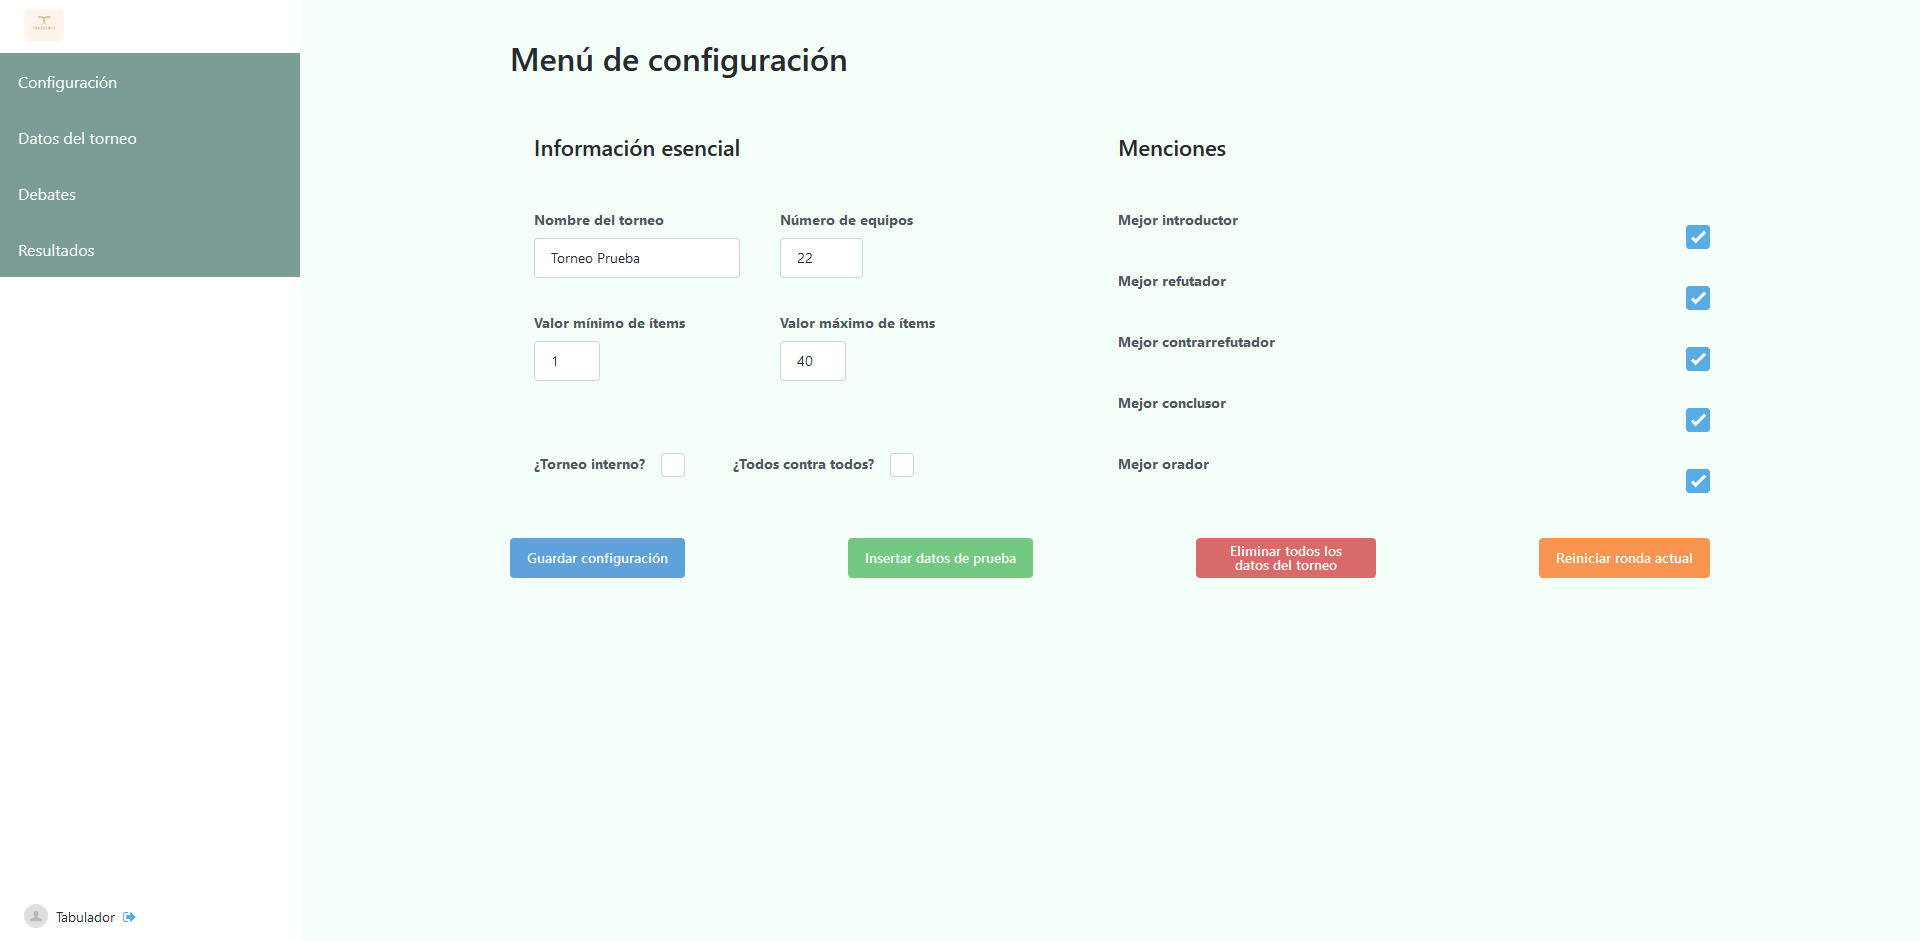
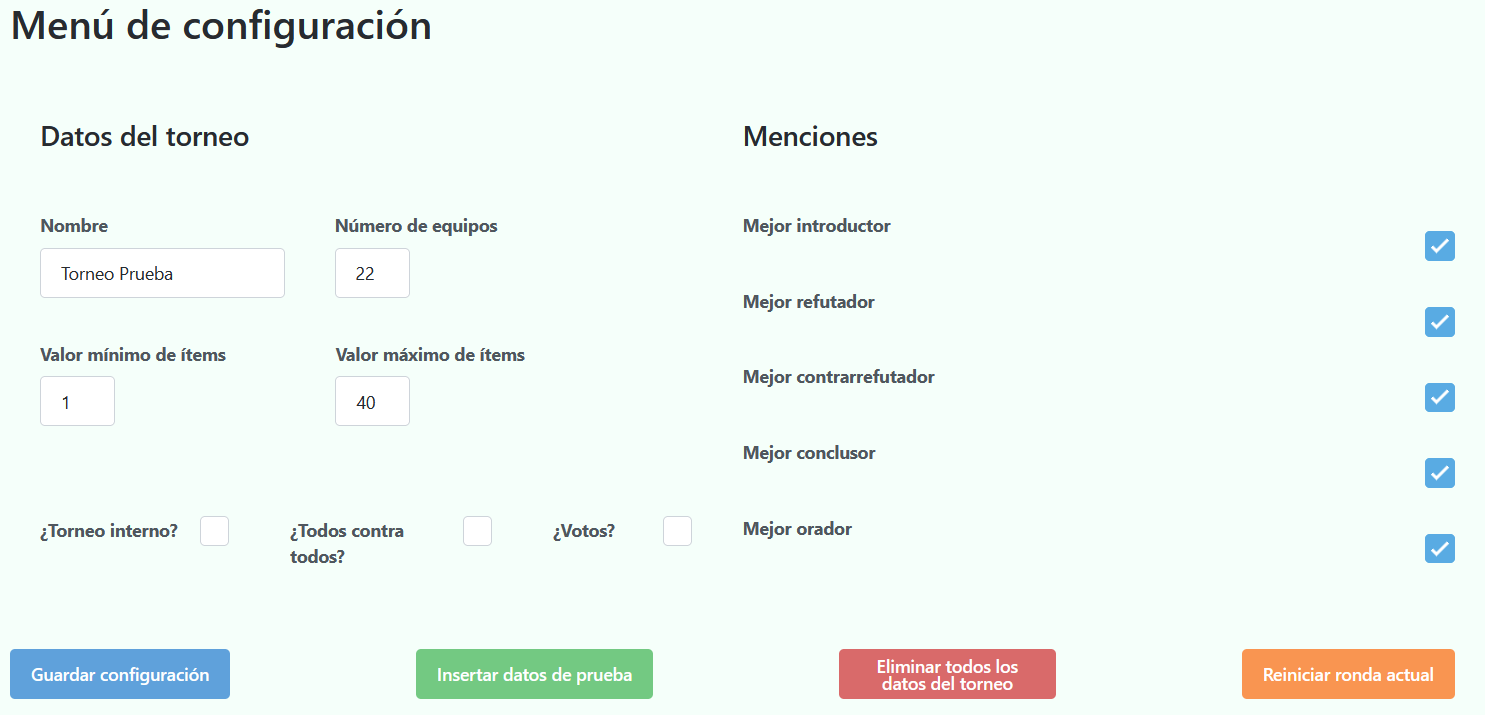
Add votos

diff --git a/docs/source/primeros_pasos.md b/docs/source/primeros_pasos.md
@@ -39,6 +39,8 @@ En ella, podremos configurar los siguientes aspectos del torneo:
 
 * ¿Es un sistema todos contra todos?
 
+* ¿Se emplearán votos en vez de ítems en las rondas finales?
+
 Además, en la parte inferior de la página se encuentran los siguientes botones:
 
 * **Guardar cambios** -> Guarda la configuración.
